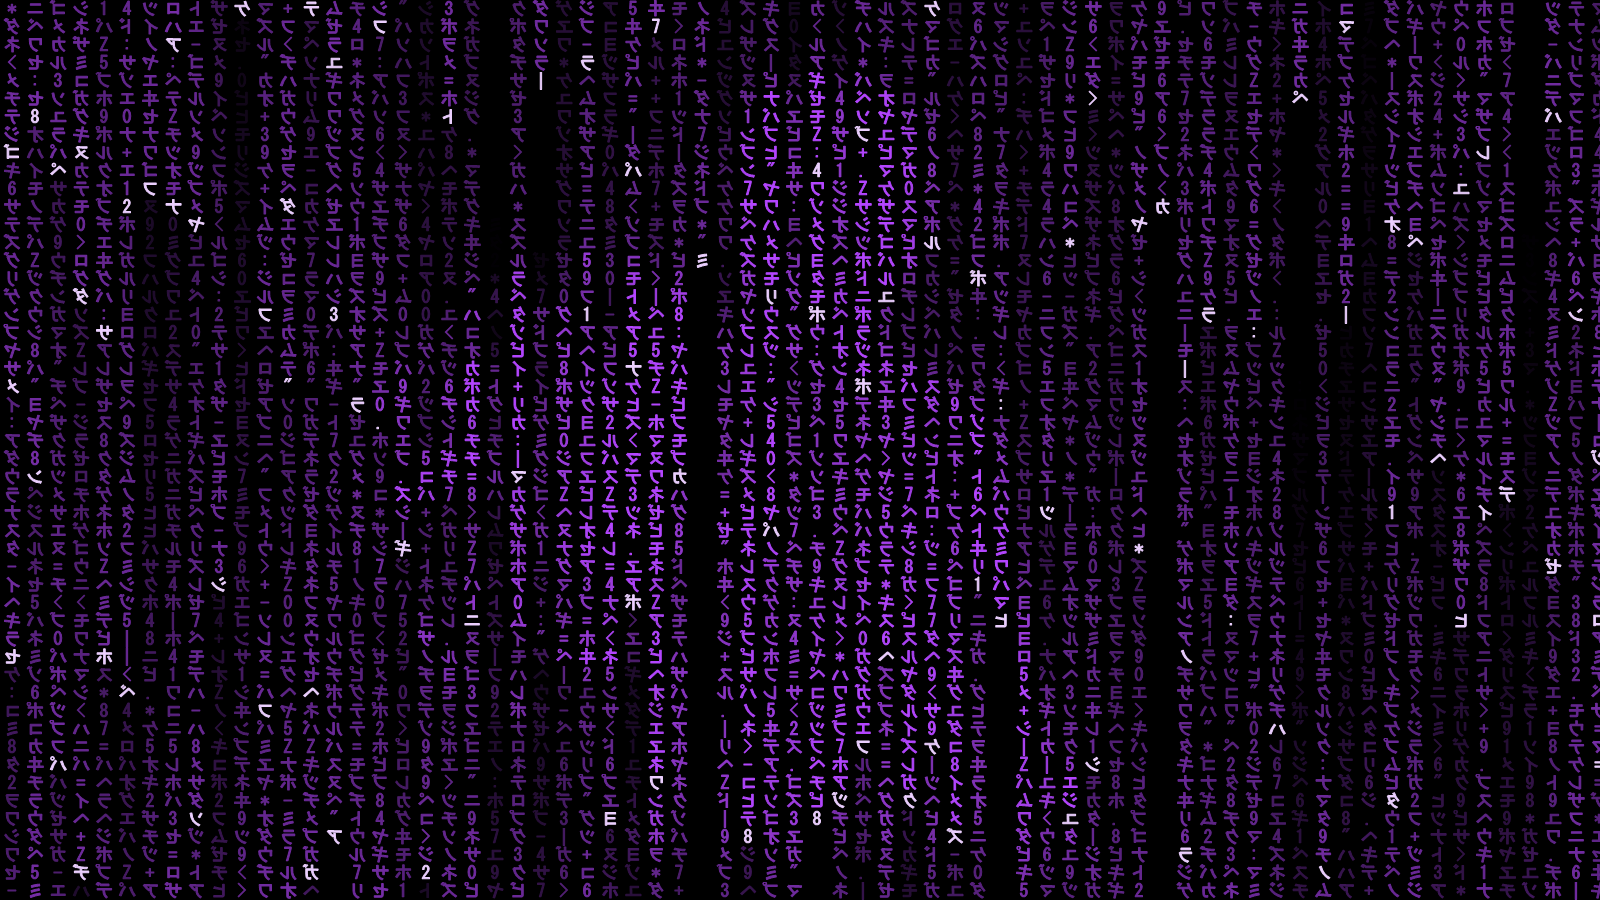
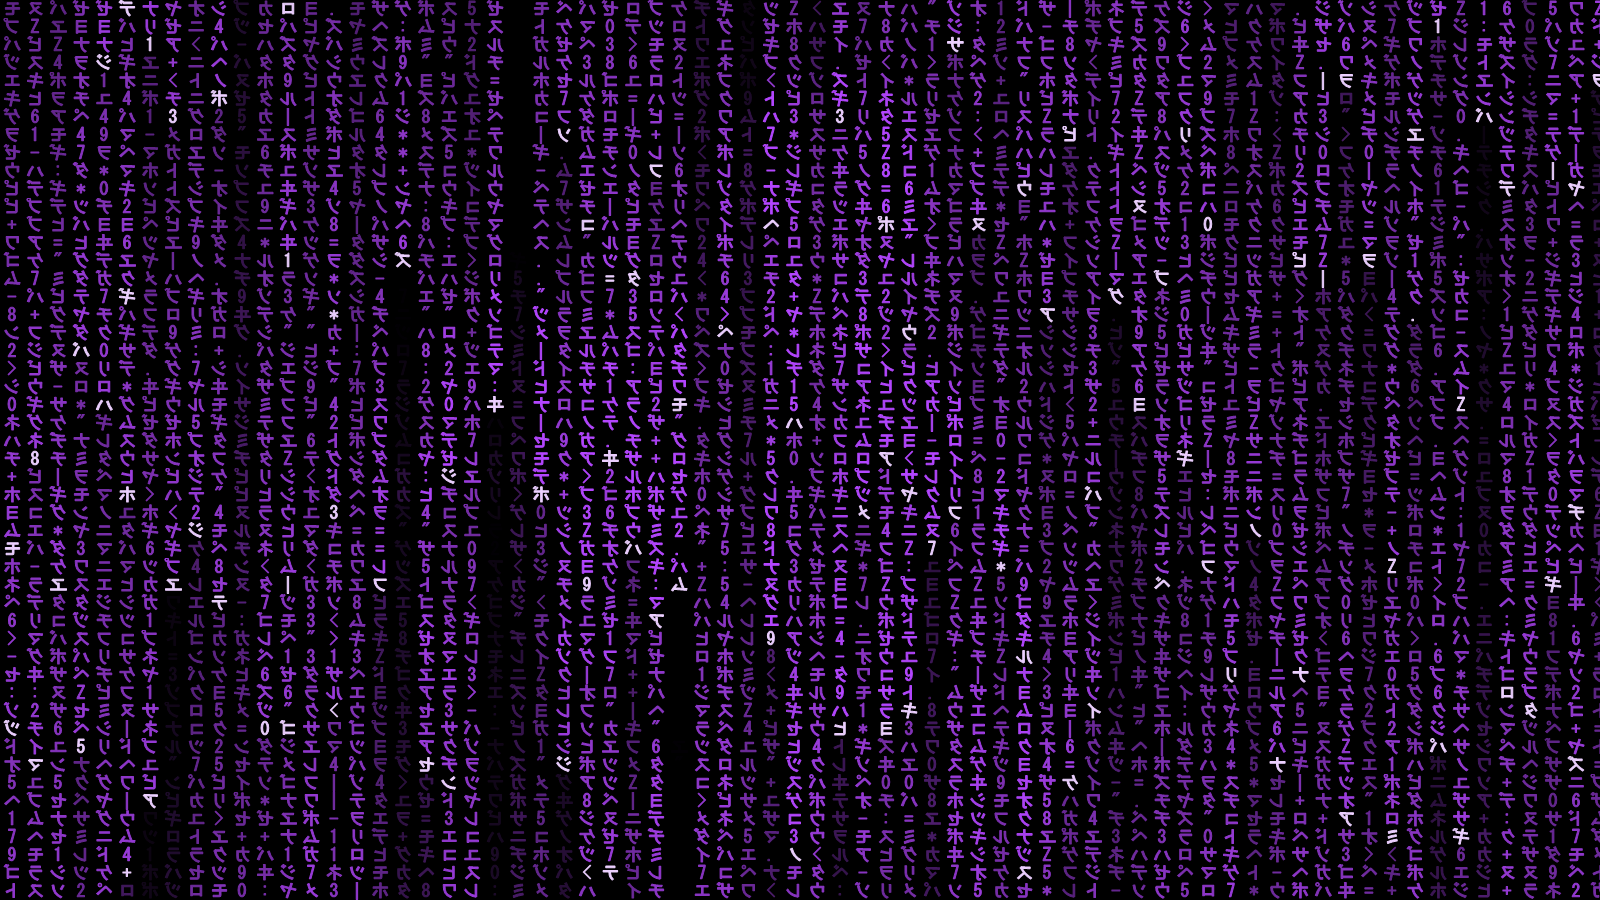
Re-render the hidden-image sample at 20% strength
Matches the subtlety the effect is meant to have in use. In a still frame the
silhouette is barely there; it only builds up over seconds of motion.

diff --git a/README.md b/README.md
@@ -21,7 +21,7 @@ and an optional hidden image that slowly emerges from the falling code.
 - **Lightweight.** About 1–2 ms per 4K frame, and a single `.scr` file with no runtime to install —
   the WPF theme used by the settings window is embedded in it.
 
-| Hidden image: the 1730 silhouette at 50% strength | Amber with CRT scanlines |
+| Hidden image: the 1730 silhouette at 20% strength | Amber with CRT scanlines |
 |---|---|
 | ![A figure with an outstretched hand emerging from purple rain](docs/images/hidden-image.png) | ![Amber rain with scanlines](docs/images/amber-scanlines.png) |
 
